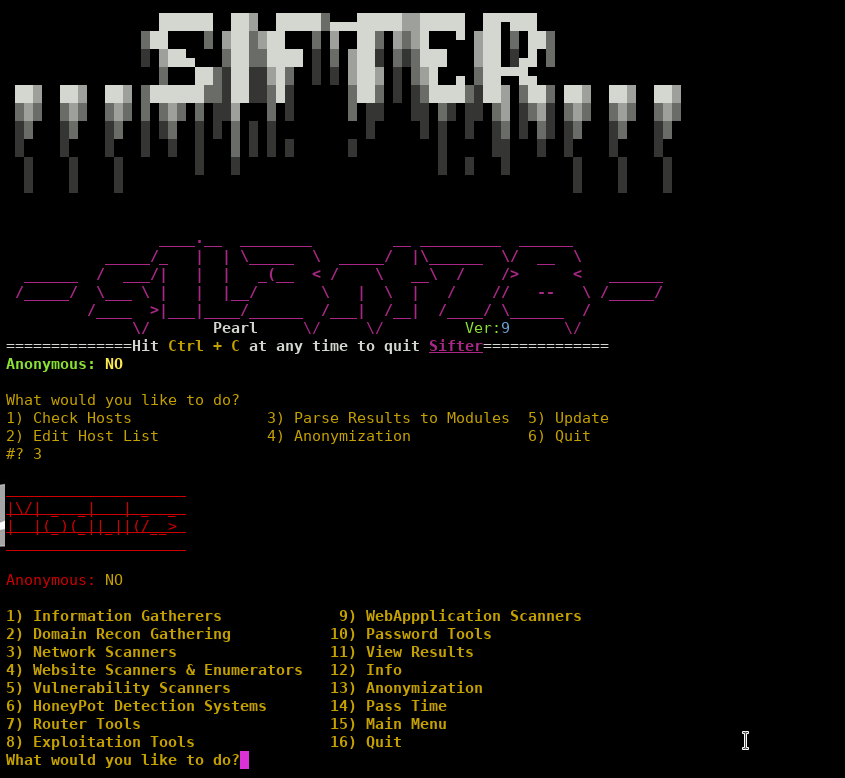
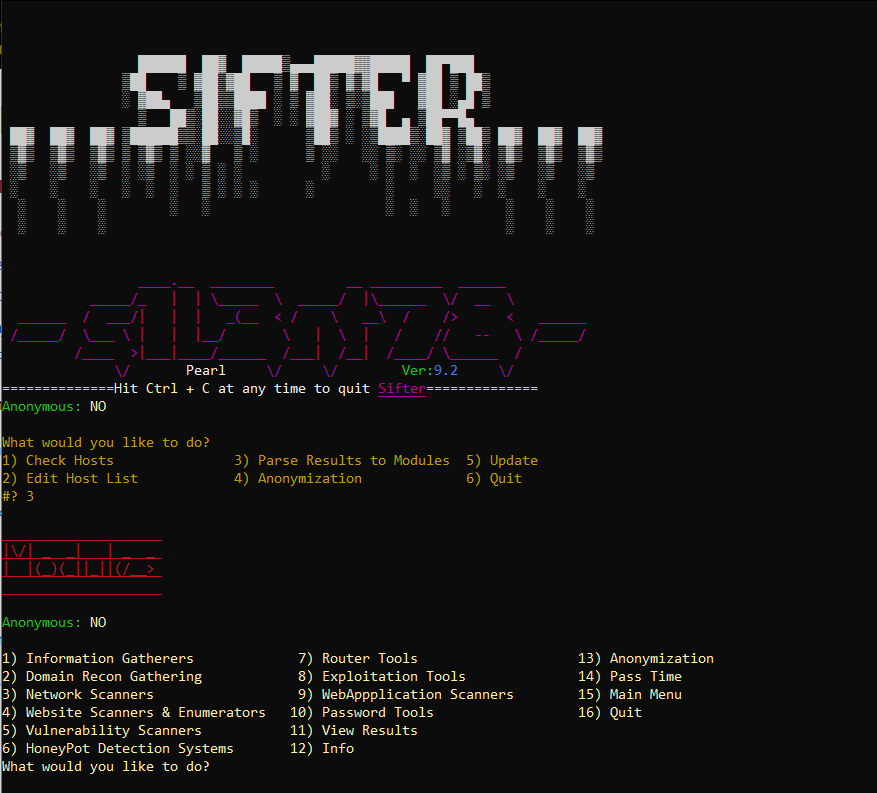
Anonymization Menu

Changed region(s): [[0.0, 0.3085, 0.8, 0.9871], [0.0, 0.0, 0.8308, 0.3085], [0.5846, 0.3393, 0.6154, 0.3702]]

diff --git a/docs/index.html b/docs/index.html
@@ -183,6 +183,8 @@ Untested on mac, though theoretically the same should apply to mac as windows - 
 <h2 style="color: #e65c00">Menu:</h2>
 <p>
 <img align="center" src="https://raw.githubusercontent.com/s1l3nt78/sifter/master/docs/menu.PNG">
+	<br />
+<img align="center" src="https://raw.githubusercontent.com/s1l3nt78/sifter/master/docs/anon.PNG">
 </p>
 	<br />
 <h2 style="color: #e65c00">Modules</h2>

diff --git a/README.md b/README.md
@@ -126,6 +126,8 @@ Untested on mac, though theoretically the same should apply to mac as windows - 
 <h2>Menu:</h2>
 <p>
 <img align="center" src="https://raw.githubusercontent.com/s1l3nt78/sifter/master/docs/menu.PNG">
+	<br />
+<img align="center" src="https://raw.githubusercontent.com/s1l3nt78/sifter/master/docs/anon.PNG">
 </p>
 
 # Modules:
